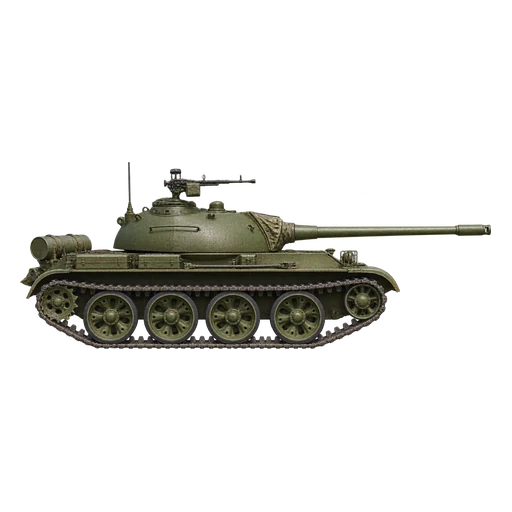
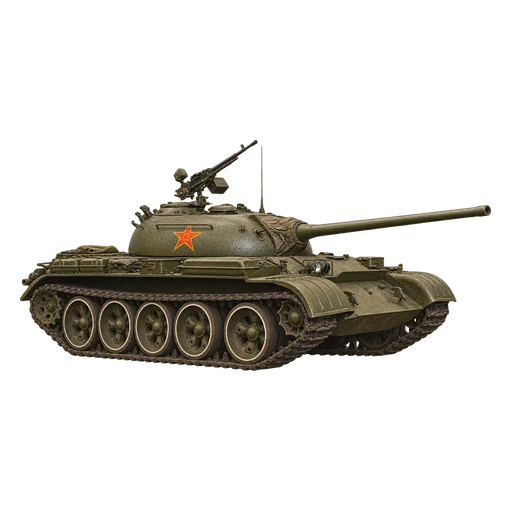
Add tank sweep and stronger bombs

Changed region(s): [[0.0312, 0.2812, 0.9688, 0.75]]

diff --git a/assets/fruits/blur.js b/assets/fruits/blur.js
@@ -1,7 +1,7 @@
 /* 自动生成，别手改 —— 改缩略图请跑 tools/make_blur.py */
 /* 贴图还没到位时画的极模糊占位（内联 data URL，零额外请求） */
 window.FRUIT_BLUR = {
[2 lines of base64/hex data omitted]
   cell: 32,
   cols: 11
 };

diff --git a/assets/fruits/parts.js b/assets/fruits/parts.js
@@ -1,4 +1,4 @@
 /* 自动生成，请勿手改 —— 由 tools/build_parts.py 生成
    parts: [ox, oy, s]，单位是「以 r 为 1」；rb: 碰撞包围圆半径（同样以 r 为单位） */
 // 额外的小圆沿炮管排布。
-window.SUIKA_PARTS = [{"parts":[[-0.004,-0.361,0.424],[0.004,-0.357,0.43],[-0.068,0.004,0.41],[0.0,0.0,0.374],[-0.034,0.518,0.476],[-0.386,-0.552,0.309],[0.391,-0.548,0.298],[0.166,-0.756,0.246],[-0.14,-0.764,0.208],[0.361,-0.115,0.187],[-0.408,-0.229,0.186],[-0.484,0.675,0.147],[0.429,0.633,0.147],[-0.476,-0.055,0.123],[-0.412,0.229,0.122],[0.484,-0.263,0.106],[-0.471,0.081,0.101],[-0.412,0.807,0.099],[0.374,0.769,0.088]],"rb":1.02},{"parts":[[0.0,-0.272,0.415],[0.017,-0.293,0.425],[-0.076,0.0,0.385],[0.0,0.0,0.349],[-0.064,0.386,0.42],[-0.187,-0.667,0.309],[0.195,-0.679,0.294],[0.403,-0.471,0.246],[0.348,-0.025,0.244],[-0.386,-0.429,0.217],[-0.412,-0.212,0.2],[0.081,0.781,0.198],[-0.459,0.051,0.173],[-0.119,0.802,0.168],[0.246,0.671,0.161],[0.48,-0.234,0.161],[-0.454,0.225,0.127],[-0.28,0.747,0.106],[0.008,-0.909,0.081],[-0.484,0.348,0.076],[0.488,-0.705,0.075]],"rb":1.001},{"parts":[[-0.004,-0.225,0.42],[0.004,-0.331,0.42],[-0.042,-0.004,0.417],[0.0,-0.004,0.372],[-0.098,0.412,0.509],[0.378,0.0,0.303],[-0.161,-0.718,0.281],[0.386,-0.505,0.249],[0.2,-0.705,0.246],[-0.403,-0.433,0.242],[-0.425,-0.191,0.221],[-0.459,0.051,0.22],[0.497,-0.28,0.148],[-0.577,0.238,0.093],[-0.442,-0.675,0.079],[0.471,0.289,0.078],[0.28,0.756,0.076],[-0.025,0.917,0.076]],"rb":1.017},{"parts":[[-0.004,-0.318,0.432],[0.025,-0.289,0.435],[-0.004,0.0,0.344],[0.068,0.008,0.434],[0.136,0.442,0.488],[-0.403,-0.488,0.312],[0.382,-0.539,0.279],[-0.14,-0.73,0.244],[-0.369,0.025,0.241],[0.115,-0.735,0.23],[0.463,-0.272,0.227],[0.493,0.106,0.197],[-0.323,0.263,0.15],[-0.488,-0.187,0.113],[0.599,0.276,0.102],[-0.374,-0.802,0.095],[0.331,-0.815,0.091],[-0.021,0.904,0.078],[-0.106,0.866,0.076],[0.577,-0.072,0.076],[0.624,0.378,0.072],[-0.174,0.819,0.07]],"rb":0.988},{"parts":[[-0.004,-0.178,0.372],[0.025,-0.246,0.396],[-0.013,0.505,0.403],[-0.004,0.51,0.398],[0.059,-0.641,0.344],[-0.195,0.144,0.259],[0.382,0.611,0.238],[-0.263,-0.518,0.235],[-0.403,0.611,0.232],[0.178,0.149,0.217],[0.357,-0.467,0.195],[0.42,-0.212,0.161],[-0.361,-0.068,0.153],[0.374,-0.055,0.144],[-0.374,-0.225,0.143],[-0.276,0.811,0.139],[0.255,0.815,0.138],[0.403,-0.658,0.118],[-0.267,-0.756,0.106],[-0.144,0.887,0.098],[0.123,0.887,0.098],[-0.038,0.909,0.089],[0.616,0.56,0.088],[-0.633,0.556,0.081]],"rb":0.999},{"parts":[[-0.004,-0.493,0.177],[0.17,-0.119,0.314],[0.136,-0.004,0.298],[0.166,-0.433,0.255],[0.106,-0.87,0.135],[0.0,0.263,0.123],[0.229,0.28,0.116],[-0.013,0.386,0.102],[-0.03,0.488,0.102],[-0.042,0.59,0.102],[-0.051,0.713,0.102],[0.234,0.399,0.099],[0.11,-0.684,0.094],[0.238,0.501,0.089],[0.242,0.59,0.089],[0.234,0.679,0.089],[-0.059,0.815,0.089],[-0.183,-0.51,0.088],[0.234,0.773,0.088],[0.234,0.87,0.081],[-0.276,-0.531,0.076],[-0.335,-0.582,0.07],[-0.068,0.904,0.068],[-0.068,-0.327,0.055]],"rb":1.012},{"parts":[[-0.004,-0.48,0.221],[0.064,-0.454,0.275],[-0.004,0.008,0.204],[0.106,-0.004,0.228],[-0.03,-0.195,0.146],[0.042,-0.866,0.125],[-0.068,0.204,0.11],[0.161,0.217,0.11],[-0.068,0.318,0.102],[0.166,0.327,0.102],[-0.318,-0.493,0.093],[0.187,0.654,0.089],[-0.072,0.42,0.087],[0.17,0.429,0.087],[0.183,0.522,0.085],[-0.085,0.603,0.085],[-0.089,0.688,0.085],[0.187,0.747,0.085],[-0.093,0.785,0.085],[-0.225,-0.505,0.082],[0.059,-0.73,0.081],[-0.081,0.51,0.081],[0.323,-0.361,0.076],[0.183,0.832,0.076]],"rb":0.993},{"parts":[[-0.004,-0.48,0.19],[0.115,-0.055,0.295],[-0.004,0.004,0.19],[0.106,-0.004,0.265],[0.14,-0.352,0.242],[0.072,-0.87,0.122],[-0.034,0.221,0.115],[0.183,0.251,0.106],[-0.038,0.335,0.097],[0.178,0.357,0.093],[0.178,0.705,0.093],[0.072,-0.658,0.09],[-0.047,0.433,0.089],[0.178,0.611,0.088],[-0.195,-0.484,0.088],[0.178,0.454,0.085],[-0.059,0.522,0.085],[-0.068,0.628,0.085],[-0.072,0.743,0.085],[0.174,0.798,0.084],[0.055,-0.747,0.077],[0.17,0.896,0.074],[-0.076,0.828,0.072],[-0.28,-0.518,0.07]],"rb":0.996},{"parts":[[-0.242,-0.433,0.284],[-0.212,0.055,0.278],[-0.085,-0.195,0.121],[-0.234,-0.887,0.119],[-0.31,0.318,0.119],[-0.093,0.31,0.11],[-0.327,0.437,0.102],[-0.348,0.556,0.102],[-0.357,0.658,0.098],[-0.089,0.42,0.093],[-0.365,0.756,0.093],[0.042,-0.467,0.093],[-0.238,-0.769,0.091],[-0.085,0.565,0.088],[-0.48,-0.276,0.085],[-0.085,0.654,0.085],[-0.089,0.773,0.085],[0.132,-0.442,0.082],[-0.081,0.858,0.081],[-0.374,0.849,0.081],[-0.467,-0.055,0.079],[0.217,-0.433,0.077],[0.297,-0.433,0.076],[-0.488,-0.191,0.071]],"rb":1.036},{"parts":[[-0.004,-0.004,0.303],[0.034,-0.004,0.332],[-0.004,0.059,0.285],[0.034,0.017,0.321],[0.072,-0.361,0.335],[0.178,0.306,0.175],[-0.115,0.323,0.161],[0.195,0.484,0.139],[-0.242,-0.48,0.133],[-0.14,0.594,0.132],[0.204,0.624,0.127],[0.038,-0.794,0.124],[0.357,0.089,0.113],[-0.157,0.73,0.112],[0.208,0.752,0.112],[-0.157,0.845,0.105],[-0.374,-0.518,0.105],[0.395,-0.267,0.093],[0.195,0.866,0.091],[-0.433,-0.607,0.087],[0.425,-0.178,0.081],[-0.072,0.48,0.078],[0.442,0.004,0.076],[0.442,-0.098,0.076]],"rb":0.979},{"parts":[[-0.331,-0.004,0.23],[-0.318,0.03,0.268],[0.0,0.102,0.177],[0.174,0.144,0.174],[-0.62,0.144,0.172],[-0.785,0.093,0.158],[-0.064,-0.064,0.127],[0.348,0.14,0.125],[-0.102,0.251,0.123],[-0.365,0.297,0.093],[0.463,0.191,0.088],[0.059,-0.098,0.076],[-0.645,0.314,0.076],[0.166,0.318,0.076],[0.501,0.11,0.066],[-0.887,-0.03,0.063],[-0.875,0.225,0.054],[-0.569,0.31,0.049],[-0.526,-0.14,0.046],[0.293,0.017,0.043],[0.136,-0.102,0.042],[0.242,0.306,0.039],[-0.17,-0.195,0.037],[-0.56,-0.085,0.036],[0.1868,-0.1083,0.0149],[0.2081,-0.1083,0.0149],[0.2293,-0.1083,0.0149],[0.2505,-0.1083,0.0149],[0.2717,-0.1083,0.0149],[0.293,-0.1083,0.0149],[0.3142,-0.1083,0.0149],[0.3354,-0.1083,0.0149],[0.3567,-0.1083,0.0149],[0.3779,-0.1083,0.0149],[0.3991,-0.1083,0.0149],[0.4203,-0.1083,0.0149],[0.4416,-0.1083,0.0149],[0.4628,-0.1083,0.0149],[0.484,-0.1083,0.0149],[0.5053,-0.1083,0.0149],[0.5265,-0.1083,0.0149],[0.5477,-0.1083,0.0149],[0.569,-0.1083,0.0149],[0.5902,-0.1083,0.0149],[0.6114,-0.1083,0.0149],[0.6326,-0.1083,0.0149],[0.6539,-0.1083,0.0149],[0.6751,-0.1083,0.0149],[0.6963,-0.1083,0.0149],[0.7176,-0.1083,0.0149],[0.7388,-0.1083,0.0149],[0.76,-0.1083,0.0149],[0.7812,-0.1083,0.0149],[0.8025,-0.1083,0.0149],[0.8237,-0.1083,0.0149],[0.8449,-0.1083,0.0149],[0.8662,-0.1083,0.0149],[0.8874,-0.1083,0.0149],[0.9086,-0.1083,0.0149],[0.9299,-0.1083,0.0149],[0.9511,-0.1083,0.0149],[0.9723,-0.1083,0.0149],[0.9935,-0.1083,0.0149]],"rb":1.0143}];
+window.SUIKA_PARTS = [{"parts":[[-0.004,-0.361,0.424],[0.004,-0.357,0.43],[-0.068,0.004,0.41],[0.0,0.0,0.374],[-0.034,0.518,0.476],[-0.386,-0.552,0.309],[0.391,-0.548,0.298],[0.166,-0.756,0.246],[-0.14,-0.764,0.208],[0.361,-0.115,0.187],[-0.408,-0.229,0.186],[-0.484,0.675,0.147],[0.429,0.633,0.147],[-0.476,-0.055,0.123],[-0.412,0.229,0.122],[0.484,-0.263,0.106],[-0.471,0.081,0.101],[-0.412,0.807,0.099],[0.374,0.769,0.088]],"rb":1.02},{"parts":[[0.0,-0.272,0.415],[0.017,-0.293,0.425],[-0.076,0.0,0.385],[0.0,0.0,0.349],[-0.064,0.386,0.42],[-0.187,-0.667,0.309],[0.195,-0.679,0.294],[0.403,-0.471,0.246],[0.348,-0.025,0.244],[-0.386,-0.429,0.217],[-0.412,-0.212,0.2],[0.081,0.781,0.198],[-0.459,0.051,0.173],[-0.119,0.802,0.168],[0.246,0.671,0.161],[0.48,-0.234,0.161],[-0.454,0.225,0.127],[-0.28,0.747,0.106],[0.008,-0.909,0.081],[-0.484,0.348,0.076],[0.488,-0.705,0.075]],"rb":1.001},{"parts":[[-0.004,-0.225,0.42],[0.004,-0.331,0.42],[-0.042,-0.004,0.417],[0.0,-0.004,0.372],[-0.098,0.412,0.509],[0.378,0.0,0.303],[-0.161,-0.718,0.281],[0.386,-0.505,0.249],[0.2,-0.705,0.246],[-0.403,-0.433,0.242],[-0.425,-0.191,0.221],[-0.459,0.051,0.22],[0.497,-0.28,0.148],[-0.577,0.238,0.093],[-0.442,-0.675,0.079],[0.471,0.289,0.078],[0.28,0.756,0.076],[-0.025,0.917,0.076]],"rb":1.017},{"parts":[[-0.004,-0.318,0.432],[0.025,-0.289,0.435],[-0.004,0.0,0.344],[0.068,0.008,0.434],[0.136,0.442,0.488],[-0.403,-0.488,0.312],[0.382,-0.539,0.279],[-0.14,-0.73,0.244],[-0.369,0.025,0.241],[0.115,-0.735,0.23],[0.463,-0.272,0.227],[0.493,0.106,0.197],[-0.323,0.263,0.15],[-0.488,-0.187,0.113],[0.599,0.276,0.102],[-0.374,-0.802,0.095],[0.331,-0.815,0.091],[-0.021,0.904,0.078],[-0.106,0.866,0.076],[0.577,-0.072,0.076],[0.624,0.378,0.072],[-0.174,0.819,0.07]],"rb":0.988},{"parts":[[-0.004,-0.178,0.372],[0.025,-0.246,0.396],[-0.013,0.505,0.403],[-0.004,0.51,0.398],[0.059,-0.641,0.344],[-0.195,0.144,0.259],[0.382,0.611,0.238],[-0.263,-0.518,0.235],[-0.403,0.611,0.232],[0.178,0.149,0.217],[0.357,-0.467,0.195],[0.42,-0.212,0.161],[-0.361,-0.068,0.153],[0.374,-0.055,0.144],[-0.374,-0.225,0.143],[-0.276,0.811,0.139],[0.255,0.815,0.138],[0.403,-0.658,0.118],[-0.267,-0.756,0.106],[-0.144,0.887,0.098],[0.123,0.887,0.098],[-0.038,0.909,0.089],[0.616,0.56,0.088],[-0.633,0.556,0.081]],"rb":0.999},{"parts":[[-0.004,-0.493,0.177],[0.17,-0.119,0.314],[0.136,-0.004,0.298],[0.166,-0.433,0.255],[0.106,-0.87,0.135],[0.0,0.263,0.123],[0.229,0.28,0.116],[-0.013,0.386,0.102],[-0.03,0.488,0.102],[-0.042,0.59,0.102],[-0.051,0.713,0.102],[0.234,0.399,0.099],[0.11,-0.684,0.094],[0.238,0.501,0.089],[0.242,0.59,0.089],[0.234,0.679,0.089],[-0.059,0.815,0.089],[-0.183,-0.51,0.088],[0.234,0.773,0.088],[0.234,0.87,0.081],[-0.276,-0.531,0.076],[-0.335,-0.582,0.07],[-0.068,0.904,0.068],[-0.068,-0.327,0.055]],"rb":1.012},{"parts":[[-0.004,-0.48,0.221],[0.064,-0.454,0.275],[-0.004,0.008,0.204],[0.106,-0.004,0.228],[-0.03,-0.195,0.146],[0.042,-0.866,0.125],[-0.068,0.204,0.11],[0.161,0.217,0.11],[-0.068,0.318,0.102],[0.166,0.327,0.102],[-0.318,-0.493,0.093],[0.187,0.654,0.089],[-0.072,0.42,0.087],[0.17,0.429,0.087],[0.183,0.522,0.085],[-0.085,0.603,0.085],[-0.089,0.688,0.085],[0.187,0.747,0.085],[-0.093,0.785,0.085],[-0.225,-0.505,0.082],[0.059,-0.73,0.081],[-0.081,0.51,0.081],[0.323,-0.361,0.076],[0.183,0.832,0.076]],"rb":0.993},{"parts":[[-0.004,-0.48,0.19],[0.115,-0.055,0.295],[-0.004,0.004,0.19],[0.106,-0.004,0.265],[0.14,-0.352,0.242],[0.072,-0.87,0.122],[-0.034,0.221,0.115],[0.183,0.251,0.106],[-0.038,0.335,0.097],[0.178,0.357,0.093],[0.178,0.705,0.093],[0.072,-0.658,0.09],[-0.047,0.433,0.089],[0.178,0.611,0.088],[-0.195,-0.484,0.088],[0.178,0.454,0.085],[-0.059,0.522,0.085],[-0.068,0.628,0.085],[-0.072,0.743,0.085],[0.174,0.798,0.084],[0.055,-0.747,0.077],[0.17,0.896,0.074],[-0.076,0.828,0.072],[-0.28,-0.518,0.07]],"rb":0.996},{"parts":[[-0.242,-0.433,0.284],[-0.212,0.055,0.278],[-0.085,-0.195,0.121],[-0.234,-0.887,0.119],[-0.31,0.318,0.119],[-0.093,0.31,0.11],[-0.327,0.437,0.102],[-0.348,0.556,0.102],[-0.357,0.658,0.098],[-0.089,0.42,0.093],[-0.365,0.756,0.093],[0.042,-0.467,0.093],[-0.238,-0.769,0.091],[-0.085,0.565,0.088],[-0.48,-0.276,0.085],[-0.085,0.654,0.085],[-0.089,0.773,0.085],[0.132,-0.442,0.082],[-0.081,0.858,0.081],[-0.374,0.849,0.081],[-0.467,-0.055,0.079],[0.217,-0.433,0.077],[0.297,-0.433,0.076],[-0.488,-0.191,0.071]],"rb":1.036},{"parts":[[-0.004,-0.004,0.303],[0.034,-0.004,0.332],[-0.004,0.059,0.285],[0.034,0.017,0.321],[0.072,-0.361,0.335],[0.178,0.306,0.175],[-0.115,0.323,0.161],[0.195,0.484,0.139],[-0.242,-0.48,0.133],[-0.14,0.594,0.132],[0.204,0.624,0.127],[0.038,-0.794,0.124],[0.357,0.089,0.113],[-0.157,0.73,0.112],[0.208,0.752,0.112],[-0.157,0.845,0.105],[-0.374,-0.518,0.105],[0.395,-0.267,0.093],[0.195,0.866,0.091],[-0.433,-0.607,0.087],[0.425,-0.178,0.081],[-0.072,0.48,0.078],[0.442,0.004,0.076],[0.442,-0.098,0.076]],"rb":0.979},{"parts":[[-0.127,0.127,0.348],[-0.004,0.166,0.319],[-0.471,0.2,0.248],[-0.722,0.183,0.22],[0.314,0.195,0.206],[0.522,0.187,0.156],[-0.425,-0.055,0.113],[0.713,0.174,0.108],[-0.348,-0.144,0.088],[0.556,0.34,0.081],[0.174,-0.102,0.057],[0.476,0.344,0.051],[-0.335,0.408,0.051],[0.718,0.284,0.048],[-0.637,0.386,0.047],[-0.93,0.106,0.045],[-0.272,-0.191,0.044],[0.454,0.042,0.042],[-0.943,0.157,0.04],[-0.17,-0.301,0.038],[0.102,-0.136,0.038],[0.684,0.318,0.038],[-0.212,-0.335,0.036],[-0.616,-0.013,0.034],[0.2293,-0.1061,0.017],[0.2505,-0.1083,0.017],[0.2717,-0.1125,0.017],[0.293,-0.1125,0.017],[0.3142,-0.1168,0.017],[0.3354,-0.1189,0.017],[0.3567,-0.121,0.017],[0.3779,-0.1231,0.017],[0.3991,-0.1274,0.017],[0.4203,-0.1274,0.017],[0.4416,-0.1316,0.017],[0.4628,-0.1337,0.017],[0.484,-0.1359,0.017],[0.5053,-0.138,0.017],[0.5265,-0.1422,0.017],[0.5477,-0.1444,0.017],[0.569,-0.1465,0.017],[0.5902,-0.1507,0.017],[0.6114,-0.1507,0.017],[0.6326,-0.155,0.017],[0.6539,-0.155,0.017],[0.6751,-0.1592,0.017],[0.6963,-0.1613,0.017],[0.7176,-0.1635,0.017],[0.7388,-0.1677,0.017],[0.76,-0.1698,0.017],[0.7812,-0.172,0.017],[0.8025,-0.1741,0.017],[0.8237,-0.1762,0.017],[0.8449,-0.1805,0.017],[0.8662,-0.1826,0.017],[0.8874,-0.1847,0.017],[0.9086,-0.1868,0.017],[0.9299,-0.1889,0.017],[0.9511,-0.1911,0.017],[0.9723,-0.1953,0.017],[0.9935,-0.1953,0.0106]],"rb":1.0231}];

diff --git a/game.js b/game.js
@@ -240,7 +240,8 @@
     revives: 0,        // 本局还剩几枚复活币（重开清零）
     reviveGiven: 0,    // 本局已经发放过几次（用来判断跨过新的 2000 分）
     freeze: 0,         // 命中定格剩余秒数
-    bombs: 3, bombMode: false, blastGrace: 0
+    bombs: 3, bombMode: false, blastGrace: 0,
+    sweep: null  // 两辆坦克合成后的大坦克清场动画
   };
 
   /* ---------------------------------------------------------
@@ -503,7 +504,7 @@
     }
     for (const b of balls) {
       const speed = Math.hypot(b.vx, b.vy);
-      const limit = b.blastTimer > 0 ? 5250 : 1500;
+      const limit = b.blastTimer > 0 ? 15750 : 1500;
       if (speed > limit) { b.vx *= limit / speed; b.vy *= limit / speed; }
     }
 
@@ -535,7 +536,7 @@
       other.vx += nx * strength;
       other.vy += ny * strength;
       const speed = Math.hypot(other.vx, other.vy);
-      const limit = other.blastTimer > 0 ? 5250 : 1200;
+      const limit = other.blastTimer > 0 ? 15750 : 1200;
       if (speed > limit) { other.vx *= limit / speed; other.vy *= limit / speed; }
       other.stress *= 0.2;
     }
@@ -551,9 +552,7 @@
       releaseStress(mx, my, a, b);
 
       if (tier >= MAX_TIER) {
-        /* 两只神奶蛙 → 一起炸掉，拿一大笔奖励分（外加一枚复活币）。
-           注意：它同时清掉了两块最大的水果，是后期唯一的泄压阀，不能取消。
-           分数的飘字不用 addScore 那个普通的，下面单独给了「大字 +500」。 */
+        /* 两辆坦克触发大坦克横扫全场，沿用分数与复活币奖励。 */
         addScore(MAX_BONUS);
         burst(mx, my, MAX_TIER, 90, 560);
         burst(mx, my, MAX_TIER - 2, 42, 340);
@@ -567,6 +566,10 @@
           state.revives++;
           paintRevives(true);
         }
+        state.bombMode = false;
+        state.sweep = { elapsed: 0, duration: 2.4, x: -190 };
+        paintBomb();
+        break; // 本次清场不再处理同一子步中其他已排队合成
       } else {
         const nt = tier + 1;
         const nb = makeBall(mx, my, nt, (a.vx + b.vx) * 0.5, (a.vy + b.vy) * 0.5 - 10);
@@ -693,7 +696,7 @@
   }
 
   function tryDrop() {
-    if (state.over || !state.ready) return;
+    if (state.over || state.sweep || !state.ready) return;
     if (state.bombMode) {
       if (state.bombs <= 0 || hasActiveBomb()) return;
       const x = clamp(state.aimX, WALL + 9.5, W - WALL - 9.5);
@@ -727,13 +730,13 @@
   function paintBomb() {
     if (bombCount) bombCount.textContent = '×' + state.bombs;
     if (!bombBtn) return;
-    bombBtn.disabled = state.bombs <= 0 || hasActiveBomb() || state.over;
+    bombBtn.disabled = state.bombs <= 0 || hasActiveBomb() || state.over || !!state.sweep;
     bombBtn.setAttribute('aria-pressed', state.bombMode ? 'true' : 'false');
     bombBtn.title = state.bombMode ? '已选择炸药：点击棋盘投放，再按一次取消' : '选择炸药，点击棋盘投放（B）';
   }
 
   function toggleBomb() {
-    if (state.over || state.bombs <= 0 || hasActiveBomb()) return;
+    if (state.over || state.sweep || state.bombs <= 0 || hasActiveBomb()) return;
     state.bombMode = !state.bombMode;
     moveAim(state.aimX);
     paintBomb();
@@ -749,10 +752,10 @@
       let nx = distance > 0.001 ? dx / distance : 0;
       let ny = distance > 0.001 ? dy / distance - 0.32 : -1;
       const norm = Math.hypot(nx, ny) || 1; nx /= norm; ny /= norm;
-      const kick = 5 * (300 + 400 / (1 + distance / 150));
+      const kick = 15 * (300 + 400 / (1 + distance / 150));
       other.vx += nx * kick; other.vy += ny * kick;
       const speed = Math.hypot(other.vx, other.vy);
-      if (speed > 5250) { other.vx *= 5250 / speed; other.vy *= 5250 / speed; }
+      if (speed > 15750) { other.vx *= 15750 / speed; other.vy *= 15750 / speed; }
       other.blastTimer = 2;
       other.overTime = 0;
       other.stress *= 0.35;
@@ -879,7 +882,7 @@
     state.revives = 0;        // 复活币只在本局有效，重开清零
     state.reviveGiven = 0;
     state.freeze = 0;
-    state.bombs = 3; state.bombMode = false; state.blastGrace = 0;
+    state.bombs = 3; state.bombMode = false; state.blastGrace = 0; state.sweep = null;
     state.pending = pickSpawnTier();
     state.next = pickSpawnTier(state.pending);
     if (overlayEl) overlayEl.classList.remove('show');
@@ -1071,6 +1074,58 @@
     c.restore();
   }
 
+  /* 一辆更大的坦克从左向右经过；扫到的人物向右上飞出。 */
+  function updateSweep(dt) {
+    const sw = state.sweep;
+    if (!sw) return;
+    sw.elapsed = Math.min(sw.duration, sw.elapsed + dt);
+    sw.x = -190 + (W + 380) * (sw.elapsed / sw.duration);
+    const front = sw.x + 165;
+    for (let i = 0; i < state.balls.length; i++) {
+      const b = state.balls[i];
+      if (b.dead) continue;
+      if (!b.sweepHit && b.x - b.rb <= front) {
+        b.sweepHit = true;
+        b.sweepLife = 0;
+        b.sweepVx = 500 + (i % 4) * 75;
+        b.sweepVy = -(320 + (i % 5) * 55);
+      }
+      if (b.sweepHit) {
+        b.sweepLife += dt;
+        b.x += b.sweepVx * dt;
+        b.y += b.sweepVy * dt;
+        b.sweepVy += 780 * dt;
+        b.angle += (i % 2 ? 1 : -1) * dt * 2.2;
+      }
+    }
+    if (sw.elapsed >= sw.duration) {
+      state.balls.length = 0;
+      state.sweep = null;
+      state.danger = false;
+      state.ready = true;
+      state.cooldown = 0;
+      state.blastGrace = 0;
+      paintBomb();
+    }
+  }
+
+  function drawSweep() {
+    const sw = state.sweep;
+    if (!sw) return;
+    const front = sw.x + 165;
+    ctx.save();
+    ctx.fillStyle = 'rgba(244, 180, 94, .12)';
+    ctx.fillRect(front - 20, 8, 40, H - 20);
+    ctx.globalAlpha = 0.2;
+    ctx.fillStyle = '#a77c54';
+    ctx.beginPath();
+    ctx.ellipse(sw.x - 80, H - WALL - 6, 95, 14, 0, 0, Math.PI * 2);
+    ctx.fill();
+    ctx.restore();
+    const bob = Math.sin(sw.elapsed * 26) * 1.5;
+    drawFruit(ctx, sw.x, H - 75 + bob, 165, MAX_TIER, 0, 1);
+  }
+
   function drawBalls() {
     const now = performance.now();
     const balls = state.balls;
@@ -1079,6 +1134,15 @@
     for (let i = 0; i < sorted.length; i++) {
       const b = sorted[i];
       if (b.dead) continue;
+
+      if (state.sweep && b.sweepHit) {
+        ctx.save();
+        ctx.globalAlpha = clamp(1 - Math.max(0, b.sweepLife - 0.5) / 0.35, 0, 1);
+        if (b.isBomb) drawBomb(ctx, b.x, b.y, b.r, b.fuse);
+        else drawFruit(ctx, b.x, b.y, b.r, b.tier, b.angle, 1);
+        ctx.restore();
+        continue;
+      }
 
       /* 地面投影 */
       ctx.save();
@@ -1102,7 +1166,7 @@
   }
 
   function drawAim() {
-    if (state.over) return;
+    if (state.over || state.sweep) return;
     const tier = state.pending;
     const r = state.bombMode ? 9 : FRUITS[tier].r;
     const [lo, hi] = state.bombMode ? [WALL + 9.5, W - WALL - 9.5] : aimLimit(tier);
@@ -1272,6 +1336,11 @@
 
     if (levelDialog && levelDialog.open) return; // 图鉴打开时暂停
     if (state.over) return;          // 结束后冻结棋盘（粒子特效仍在 render 里继续）
+    if (state.sweep) {
+      updateSweep(dt);
+      if (state.flash > 0) state.flash = Math.max(0, state.flash - dt * 2.2);
+      return;
+    }
 
     if (!state.ready) {
       state.cooldown -= dt;
@@ -1281,9 +1350,10 @@
     /* 爆炸后高速运动时增加子步，控制单步位移，减少穿透。 */
     let maxSpeed = 0;
     for (const b of state.balls) maxSpeed = Math.max(maxSpeed, Math.hypot(b.vx, b.vy));
-    const substeps = Math.min(16, Math.max(SUBSTEPS, Math.ceil(maxSpeed * dt / 8)));
+    const substeps = Math.min(36, Math.max(SUBSTEPS, Math.ceil(maxSpeed * dt / 8)));
     const sub = dt / substeps;
-    for (let s = 0; s < substeps; s++) stepPhysics(sub);
+    for (let s = 0; s < substeps; s++) { stepPhysics(sub); if (state.sweep) break; }
+    if (state.sweep) return;
     const bomb = state.balls.find(b => b.isBomb && !b.dead);
     if (bomb) { bomb.fuse -= dt; if (bomb.fuse <= 0) detonateBomb(bomb); }
     else if (state.blastGrace > 0) state.blastGrace = Math.max(0, state.blastGrace - dt);
@@ -1298,6 +1368,7 @@
 
     drawBoard();
     drawBalls();
+    drawSweep();
     drawAim();
     /* 定格期间把特效的 dt 也压成 0，让它跟世界一起停住 */
     drawEffects(state.freeze > 0 ? 0 : dt);

diff --git a/tests/bomb.test.js b/tests/bomb.test.js
@@ -145,19 +145,19 @@ U.reset();
 let a=ball(70,0,600),b=ball(130,0,600), far=ball(350,4,500);
 bomb=ball(35,0,600);bomb.isBomb=true;bomb.tier=-1;S.balls.push(a,b,far,bomb);U.detonateBomb(bomb);
 check('爆炸不删除人物，全场受到推力', S.balls.length===3 && Math.hypot(a.vx,a.vy)>100 && Math.hypot(far.vx,far.vy)>100);
-const expected=5*(300+400/(1+35/150));
-check('爆炸初始推力为原来的五倍', Math.abs(Math.hypot(a.vx,a.vy)-expected)<0.01, 'actual='+Math.hypot(a.vx,a.vy).toFixed(1)+' expected='+expected.toFixed(1));
+const expected=15*(300+400/(1+35/150));
+check('爆炸初始推力为之前版本的三倍', Math.abs(Math.hypot(a.vx,a.vy)-expected)<0.01, 'actual='+Math.hypot(a.vx,a.vy).toFixed(1)+' expected='+expected.toFixed(1));
 check('爆炸后提供判负缓冲', S.blastGrace>0);
 let invalid=false, maxSpeed=0;
 for(let i=0;i<60*4;i++){ U.update(1/60); for(const item of S.balls){ if(outOfBounds(item,12)) invalid=true; maxSpeed=Math.max(maxSpeed,Math.hypot(item.vx,item.vy)); } }
-check('爆炸后数值稳定且不穿墙',!invalid && maxSpeed<=5250,'max speed='+maxSpeed.toFixed(1));
+check('爆炸后数值稳定且不穿墙',!invalid && maxSpeed<=15750,'max speed='+maxSpeed.toFixed(1));
 check('被弹开的同级人物仍能碰撞合成',S.score>0,'score='+S.score);
 U.reset();
 for(let i=0;i<20;i++) S.balls.push(ball(70+(i%5)*65,i%5,385+Math.floor(i/5)*65));
 bomb=ball(210,0,525); bomb.isBomb=true; bomb.tier=-1; S.balls.push(bomb); U.detonateBomb(bomb);
 let stressInvalid=false, largest=0;
 for(let i=0;i<120;i++){ U.update(1/60); for(const item of S.balls){ if(outOfBounds(item,12)) stressInvalid=true; largest=Math.max(largest,Math.hypot(item.vx,item.vy)); } }
-check('拥挤场景强爆炸后保持有界',!stressInvalid && largest<=5250,'max speed='+largest.toFixed(1));
+check('拥挤场景强爆炸后保持有界',!stressInvalid && largest<=15750,'max speed='+largest.toFixed(1));
 S.bombs=0;U.toggleBomb();check('没有炸药时无法选择',!S.bombMode);
 U.reset();check('重开后炸药恢复至 3 枚',S.bombs===3);
 console.log(pass?'炸药玩法通过':'炸药玩法失败');process.exitCode=pass?0:1;

diff --git a/index.html b/index.html
@@ -90,7 +90,7 @@
     <div class="chain-box">
       <span class="box-label">合成表</span>
       <canvas id="chain" width="680" height="112" aria-label="合成顺序"></canvas>
-      <p class="chain-note">✨ 两辆坦克撞在一起会一起炸掉，换 <strong>500 分</strong> + <strong>一枚复活币</strong></p>
+      <p class="chain-note">✨ 两辆坦克相撞，召唤大坦克横扫清场，换 <strong>500 分</strong> + <strong>一枚复活币</strong></p>
     </div>
 
     <div class="actions">
@@ -130,7 +130,7 @@
       <li><span class="level-badge">LV 10</span><img src="assets/fruits/10-halfmelon.webp" alt="" width="96" height="96"><strong>姆巴佩</strong></li>
       <li><span class="level-badge">LV 11</span><img src="assets/fruits/11-watermelon.webp" alt="" width="96" height="96"><strong>坦克</strong></li>
   </ol>
-  <p class="level-foot">💣 每局 3 枚炸药，合成 LV 9 +1；投放约 2 秒后爆炸。<br>两个 LV 11 相撞：清场 + 500 分 + 一枚复活币</p>
+  <p class="level-foot">💣 每局 3 枚炸药，合成 LV 9 +1；投放约 2 秒后爆炸。<br>两个 LV 11 相撞：大坦克横扫清场 + 500 分 + 一枚复活币</p>
 </dialog>
 
 <!-- 碰撞形状数据（按贴图轮廓自动生成，由 tools/build_parts.py 产出） -->

diff --git a/README.md b/README.md
@@ -2,9 +2,9 @@
 
 [在线游玩](https://winstonhuanghz.github.io/merge-people/) · 也可以直接用浏览器打开 `index.html`。鼠标移动后点击投放；触屏拖动后松手投放。键盘左右键调整位置，空格投放，R 重开。点击「等级图鉴」查看所有等级，打开图鉴期间游戏暂停。最高分保存在当前浏览器。
 
-每局有 3 枚炸药。点击「炸药」或按 B 选择，再点击或触屏投放；再点一次按钮可取消选择。炸药约 2 秒后爆炸，以加强至原版 5 倍的推力推开全场，而不直接删除人物。合成一个习近平（LV 9）奖励 1 枚炸药。引信燃烧期间不能再次投放炸药，但可以继续投放普通人物。
+每局有 3 枚炸药。点击「炸药」或按 B 选择，再点击或触屏投放；再点一次按钮可取消选择。炸药约 2 秒后爆炸，以强力冲击推开全场，而不直接删除人物。合成一个习近平（LV 9）奖励 1 枚炸药。引信燃烧期间不能再次投放炸药，但可以继续投放普通人物。
 
-合成顺序：毛泽东 → 周恩来 → 刘少奇 → 华国锋 → 邓小平 → 江泽民 → 朱镕基 → 胡锦涛 → 习近平 → 姆巴佩毛装彩蛋 → 59 式坦克。两辆坦克碰撞会清除并奖励分数和复活币。人物顺序是游戏设定，并非历史地位排序。
+合成顺序：毛泽东 → 周恩来 → 刘少奇 → 华国锋 → 邓小平 → 江泽民 → 朱镕基 → 胡锦涛 → 习近平 → 姆巴佩毛装彩蛋 → 59 式坦克。两辆坦克碰撞后召唤一辆大坦克横扫并清空棋盘，同时奖励分数和复活币。人物顺序是游戏设定，并非历史地位排序。
 
 人物形象由 AI 根据维基共享资源标为公有领域或 CC0 的照片生成，衣服及身体等细节为生成内容，并非历史照片；最后的坦克也是生成图。参考照片和原游戏来源见 `SOURCES.md`。本游戏衍生自 [YHSome/BigNaiWa](https://github.com/YHSome/BigNaiWa)。
 

diff --git a/SOURCES.md b/SOURCES.md
@@ -15,7 +15,7 @@
 - 习近平：[Xi Jinping 2022 (cropped).jpg](https://commons.wikimedia.org/wiki/File:Xi_Jinping_2022_(cropped).jpg)；维基共享资源标示：Public domain；作者：𝗗𝗲𝗽𝗮𝗿𝘁𝗺𝗲𝗻𝘁 𝗼𝗳 𝗙𝗼𝗿𝗲𝗶𝗴𝗻 𝗔𝗳𝗳𝗮𝗶𝗿𝘀。
 - 姆巴佩：[Picture with Mbappé (cropped).jpg](https://commons.wikimedia.org/wiki/File:Picture_with_Mbapp%C3%A9_(cropped).jpg)；维基共享资源标示：CC0；作者：Helfer Emilio。
 
-坦克素材依据 59 式坦克的外观生成，非历史现场照片。[美国国会及行政当局中国委员会听证记录](https://www.cecc.gov/sites/evo-subsites/cecc.house.gov/files/documents/hearings/2009/CECC%20Hearing%20-%20The%2020th%20Anniversary%20of%20the%20Tiananmen%20Square%20Protests%20-%206.4.09.pdf)将当时坦克描述为 Type 59。
+坦克素材参考 Max Smith 于 2007 年在北京中国人民革命军事博物馆拍摄并发布为公有领域的 [59 式坦克正侧面照](https://commons.wikimedia.org/wiki/File:Type_59_tank_-_front_right.jpg) 与 [俯视照](https://commons.wikimedia.org/wiki/File:Type_59_tank_-_above.jpg) 生成，并非历史现场照片。[美国国会及行政当局中国委员会听证记录](https://www.cecc.gov/sites/evo-subsites/cecc.house.gov/files/documents/hearings/2009/CECC%20Hearing%20-%20The%2020th%20Anniversary%20of%20the%20Tiananmen%20Square%20Protests%20-%206.4.09.pdf)将当时坦克描述为 Type 59。
 
 ## 游戏代码
 

diff --git a/图片生成说明.md b/图片生成说明.md
@@ -13,3 +13,5 @@
 坦克素材独立生成：1980 年代的 59 式坦克风格，橄榄绿色、圆形炮塔、履带、侧视，长炮管向右；透明背景，无人物、文字或场景。它不声称是现场照片或精确技术复原。
 
 更新版对前五级使用头像，并将第六、七、八、九、十级做成全身形象。使用内置 imagegen 以先前生成的素材作为身份参考，对第 2、3、4 级只保留头部和少量衣领；对第 6、8 级扩展为穿西装、伸出手臂的完整人物，并维持透明背景。
+
+本次重做的坦克使用内置 imagegen，以 Max Smith 拍摄的维基共享资源公有领域 59 式坦克正侧面与俯视照片作参考，生成一辆橄榄绿色、圆形炮塔、五对负重轮、炮管朝右、透明背景的写实游戏素材；画面是基于型号的生成插画，不是事件现场照片。
